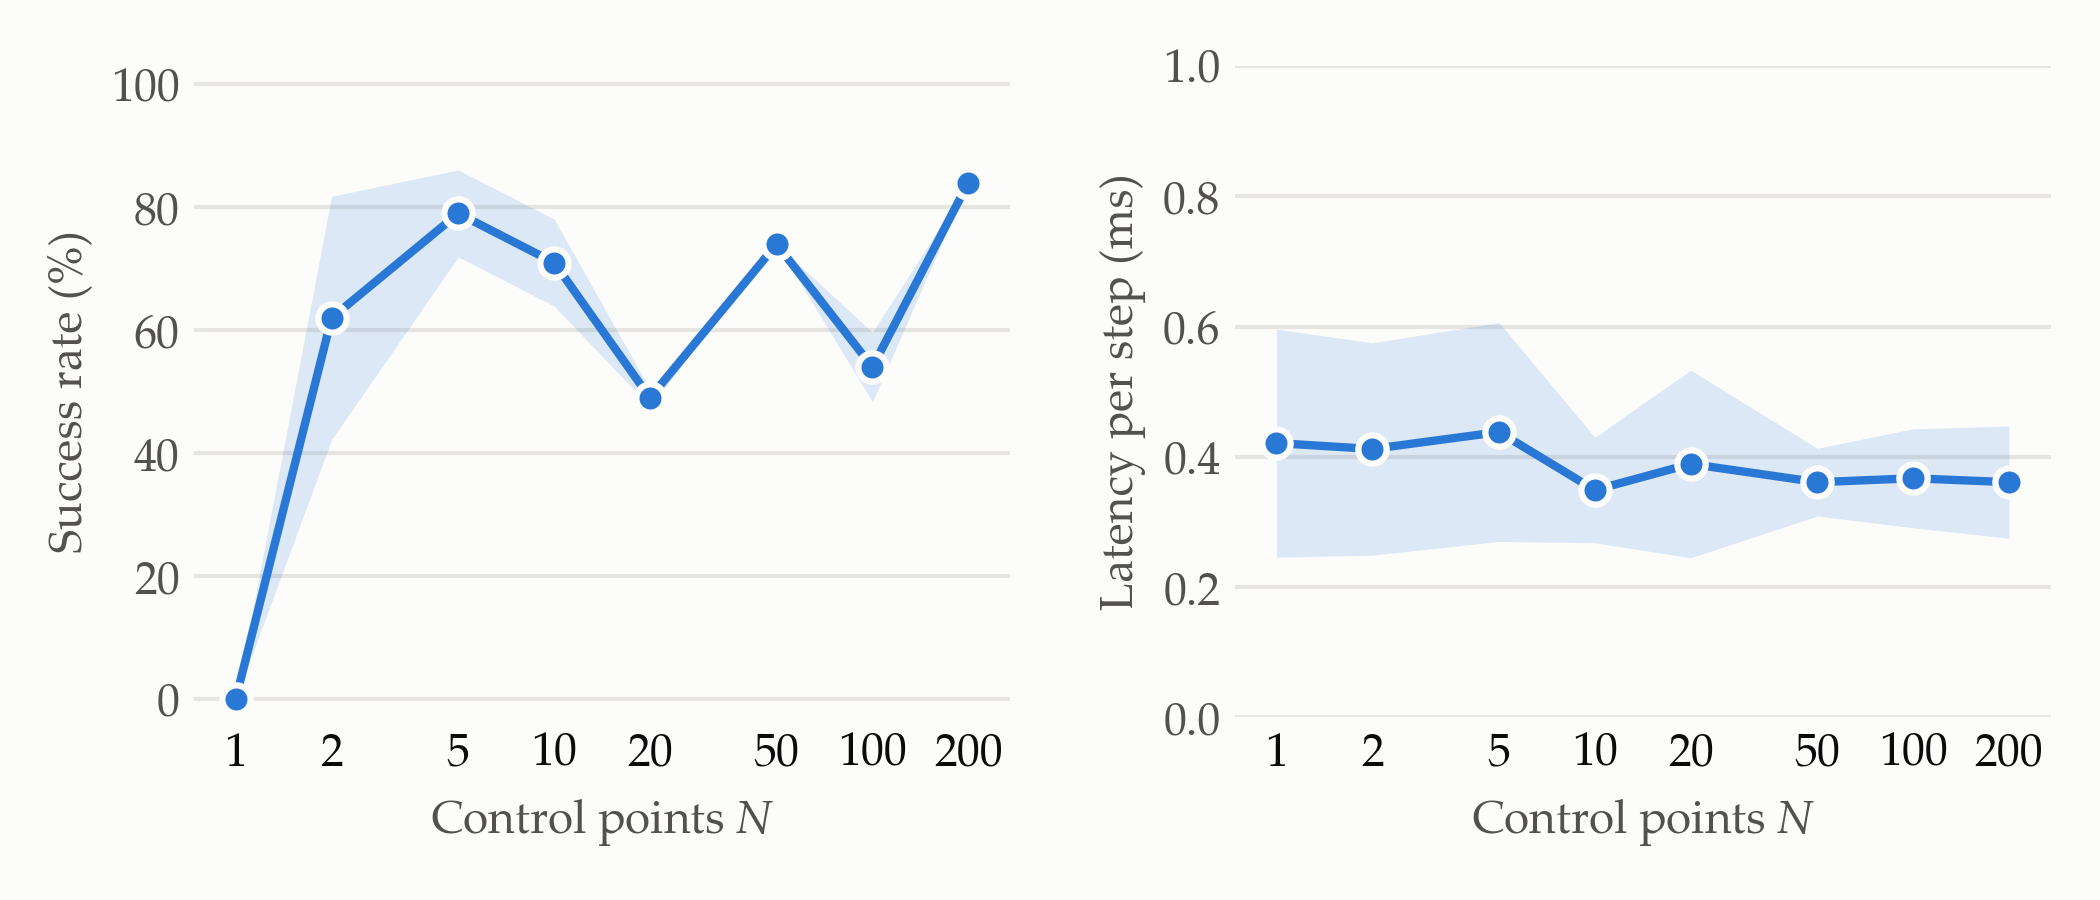
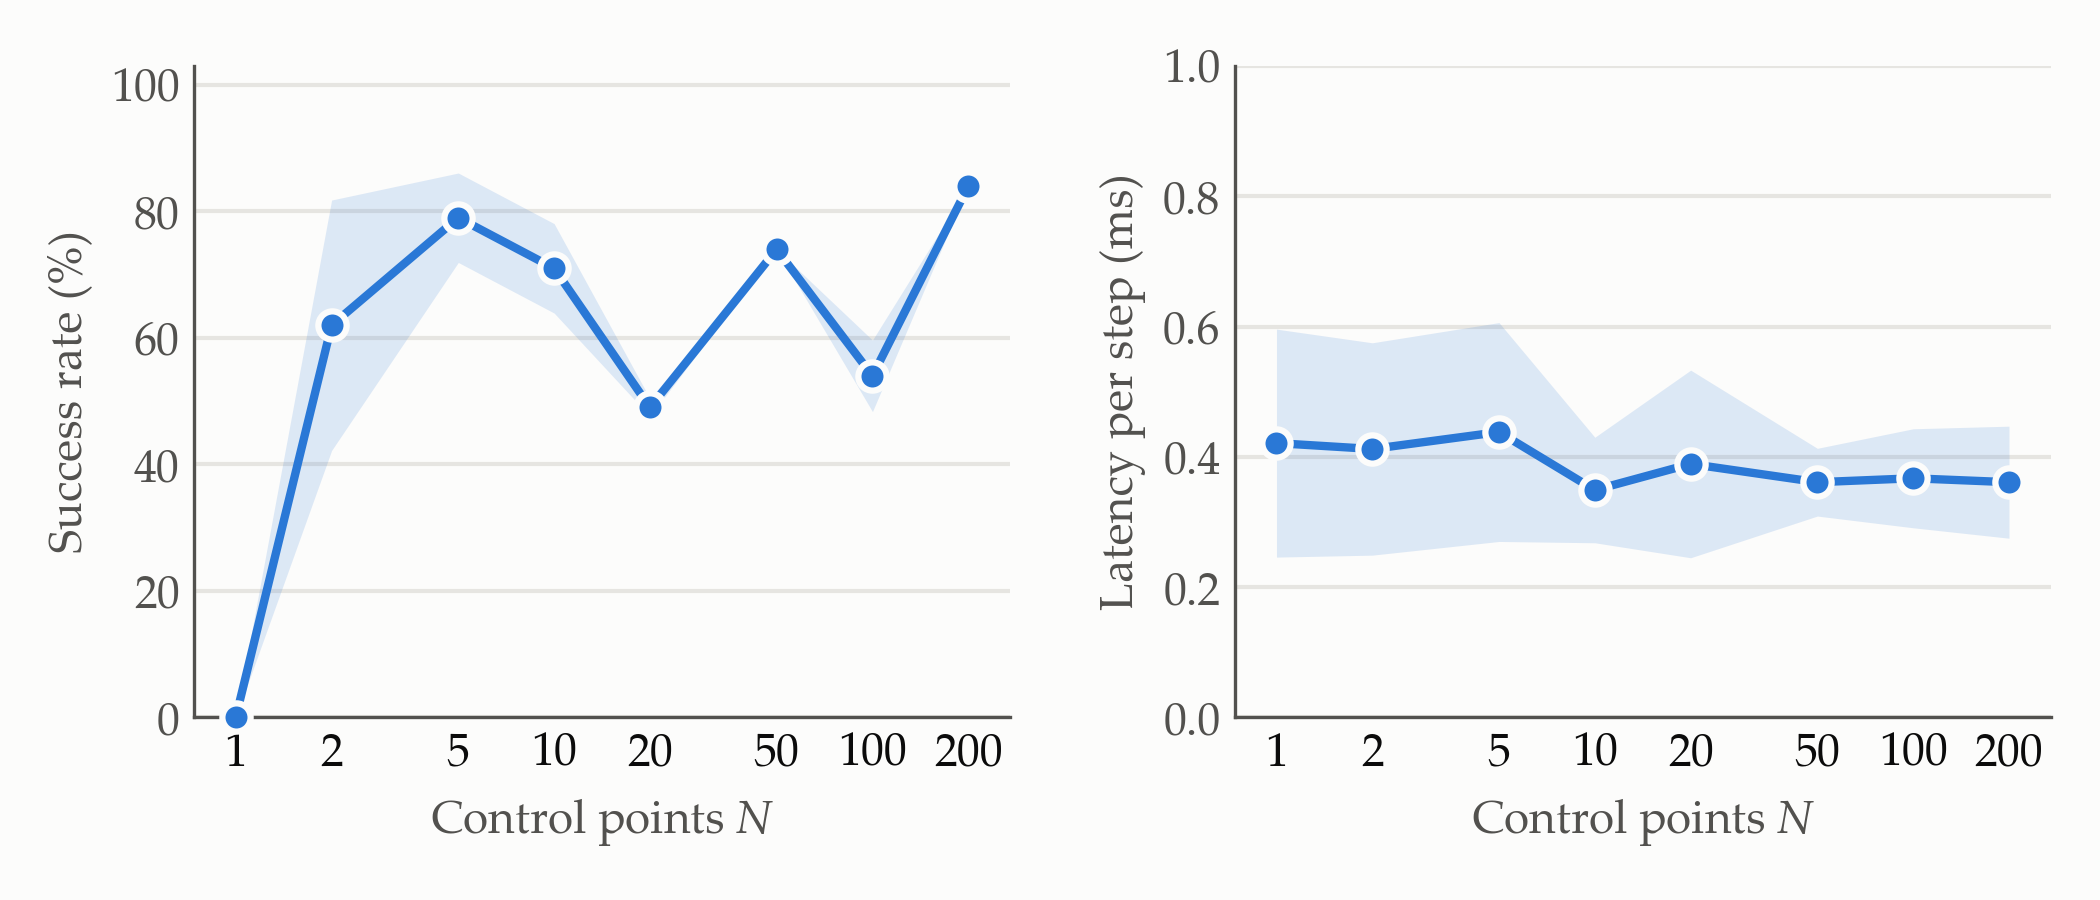
plots: left and bottom axis lines in the N-sweep figure
Success axis starts on the 0 gridline (so the x-axis line does not double it)
and markers are drawn unclipped, keeping the N=1 point at 0 % whole.

Changed region(s): [[0.0619, 0.2178, 0.4952, 0.8089], [0.5881, 0.7778, 0.9905, 0.8089], [0.0619, 0.2178, 0.1548, 0.28]]

diff --git a/scripts/plot_nsweep.py b/scripts/plot_nsweep.py
@@ -68,8 +68,12 @@ def style(ax, ns: list[int]) -> None:
     ax.set_xlabel("Control points $N$")
     ax.grid(axis="y", color=GRID, linewidth=1)
     ax.set_axisbelow(True)
-    for side in ("top", "right", "left", "bottom"):
+    for side in ("top", "right"):
         ax.spines[side].set_visible(False)
+    for side in ("left", "bottom"):  # axis lines
+        ax.spines[side].set_visible(True)
+        ax.spines[side].set_color(TEXT2)
+        ax.spines[side].set_linewidth(0.8)
     ax.tick_params(axis="both", length=0)
 
 
@@ -95,14 +99,14 @@ def main() -> int:
         ax_s.fill_between(ns, [max(0, m - s) for m, s in zip(means, sds)], [min(100, m + s) for m, s in zip(means, sds)],
                           color=C_ENT, alpha=0.15, linewidth=0, zorder=1)
         ax_s.plot(ns, means, color=C_ENT, linewidth=2, zorder=2)
-        ax_s.scatter(ns, means, s=46, color=C_ENT, edgecolor=SURFACE, linewidth=1.5, zorder=4)
+        ax_s.scatter(ns, means, s=46, color=C_ENT, edgecolor=SURFACE, linewidth=1.5, zorder=4, clip_on=False)
 
         lm = [lat[n][0] for n in ns]
         ls = [lat[n][1] for n in ns]
         ax_l.fill_between(ns, [max(0, m - s) for m, s in zip(lm, ls)], [m + s for m, s in zip(lm, ls)],
                           color=C_ENT, alpha=0.15, linewidth=0, zorder=1)
         ax_l.plot(ns, lm, color=C_ENT, linewidth=2, zorder=2)
-        ax_l.scatter(ns, lm, s=46, color=C_ENT, edgecolor=SURFACE, linewidth=1.5, zorder=4)
+        ax_l.scatter(ns, lm, s=46, color=C_ENT, edgecolor=SURFACE, linewidth=1.5, zorder=4, clip_on=False)
 
         for n, m, s, l_m in zip(ns, means, sds, lm):
             print(f"{label} N={n:<4} seeds={sorted(succ[n])} success={[round(succ[n][k], 1) for k in sorted(succ[n])]} "
@@ -111,7 +115,7 @@ def main() -> int:
         style(ax_l, ns)
         top_ms = max(m + s for m, s in zip(lm, ls))
 
-    ax_s.set_ylim(-3, 103)
+    ax_s.set_ylim(0, 103)  # axis starts on the 0 gridline so the x-axis line does not double it
     ax_s.set_yticks(range(0, 101, 20))
     ax_s.set_ylabel("Success rate (%)")
     ax_l.set_ylim(0, max(1.0, round(top_ms * 1.25, 1)))
